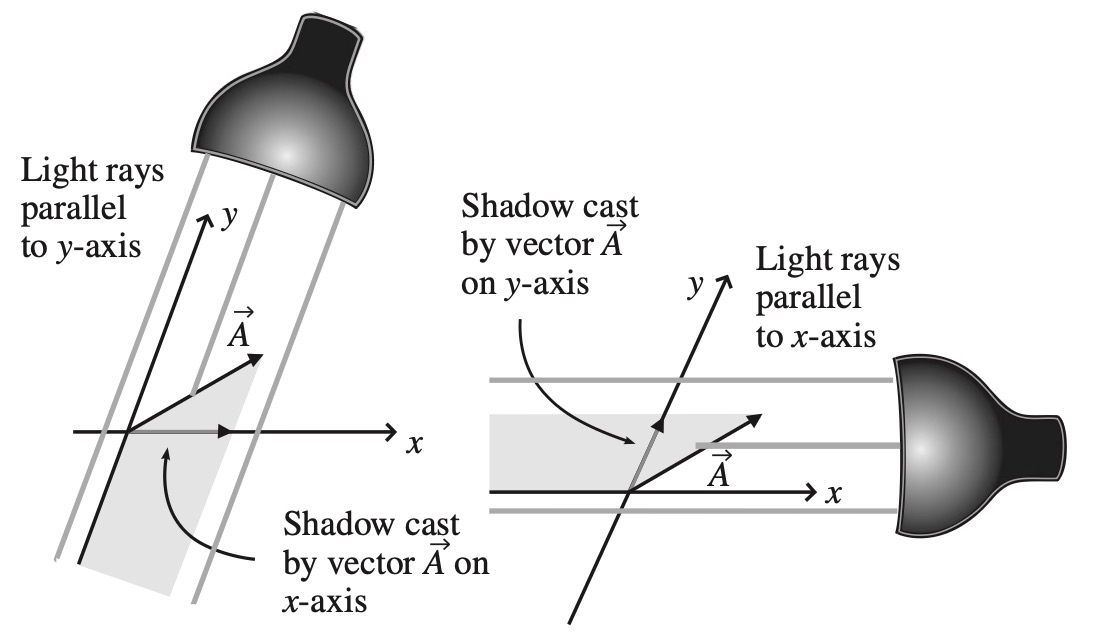
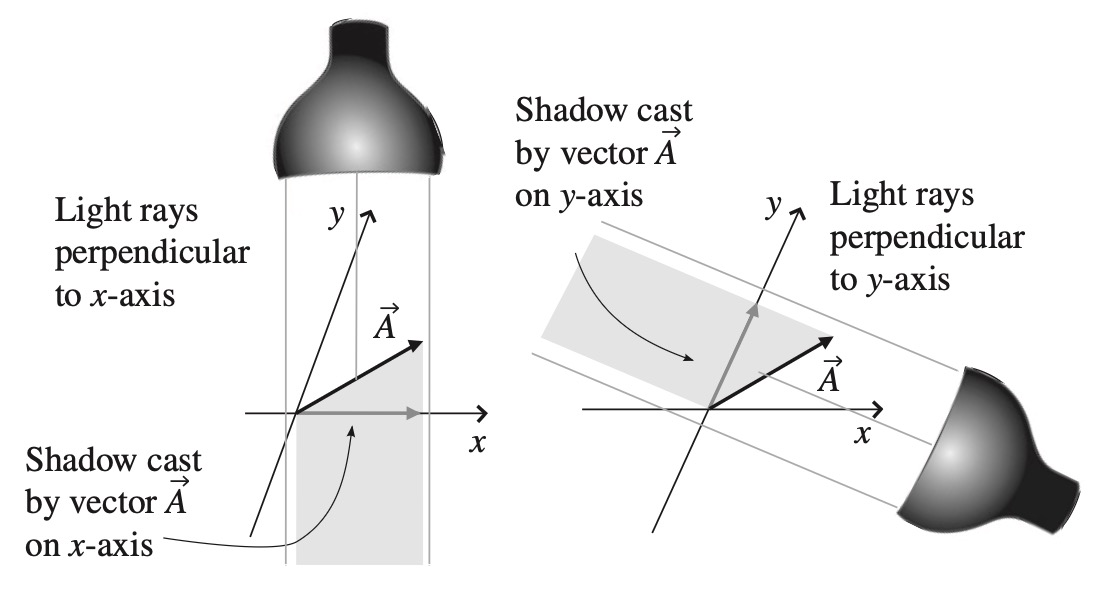
updates

diff --git a/_posts/2025/2025-12-01-What-Is-a-Tensor-A-Practical-Guide-for-AI-Engineers.md b/_posts/2025/2025-12-01-What-Is-a-Tensor-A-Practical-Guide-for-AI-Engineers.md
@@ -53,7 +53,7 @@ Dan Fleisch uses a beautiful analogy: imagine shining a light perpendicular to a
 To find the **x-component**: shine light parallel to the y-axis (perpendicular to x). The shadow on the x-axis is Aₓ.
 
 ![Projections using light sources parallel to x- and y-axes.](/content/2025/12/tensor1.png){: width="500" height="800" }
-_Projections using light sources parallel to x- and y-axes - image source [A Student's Guide to Vectors and Tensors](https://www4.danfleisch.com/sgvt/)_
+_Projections using light sources perpendicular to x- and y-axes - image source [A Student's Guide to Vectors and Tensors](https://www4.danfleisch.com/sgvt/)_
 
 
 Alternatively, think of it as: *"How many x̂ unit vectors and how many ŷ unit vectors would it take to get from the base to the tip of this vector?"*
